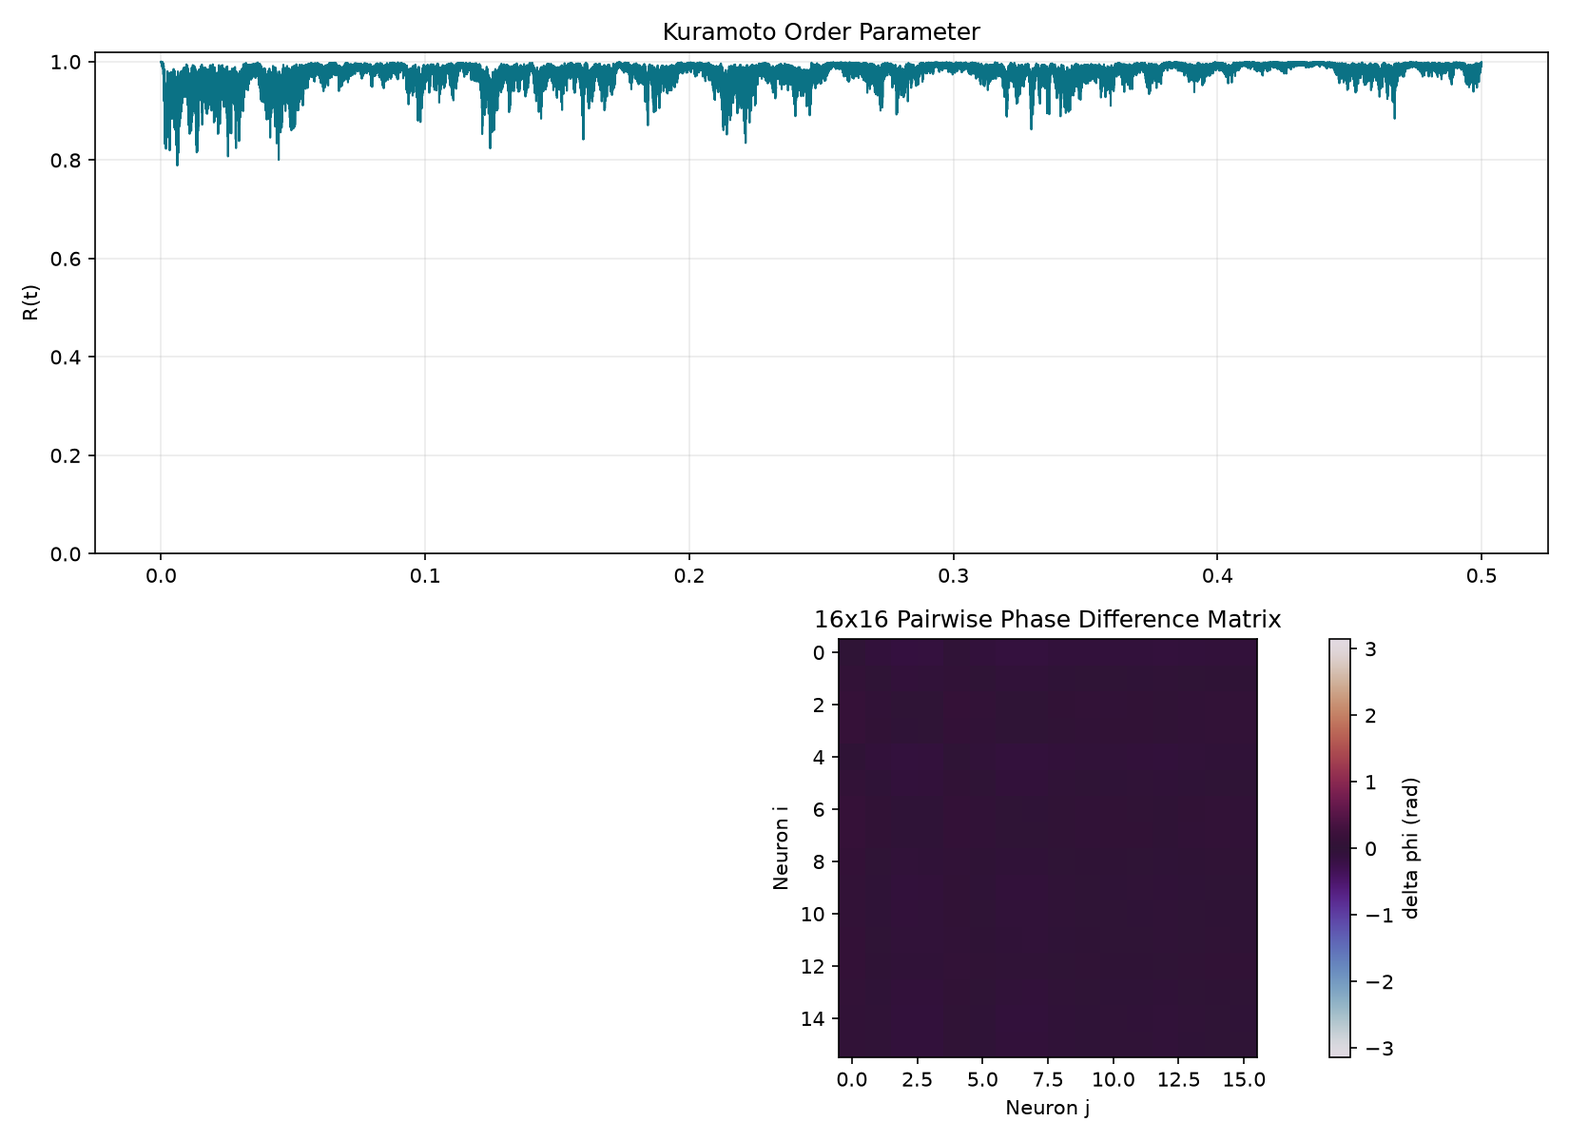
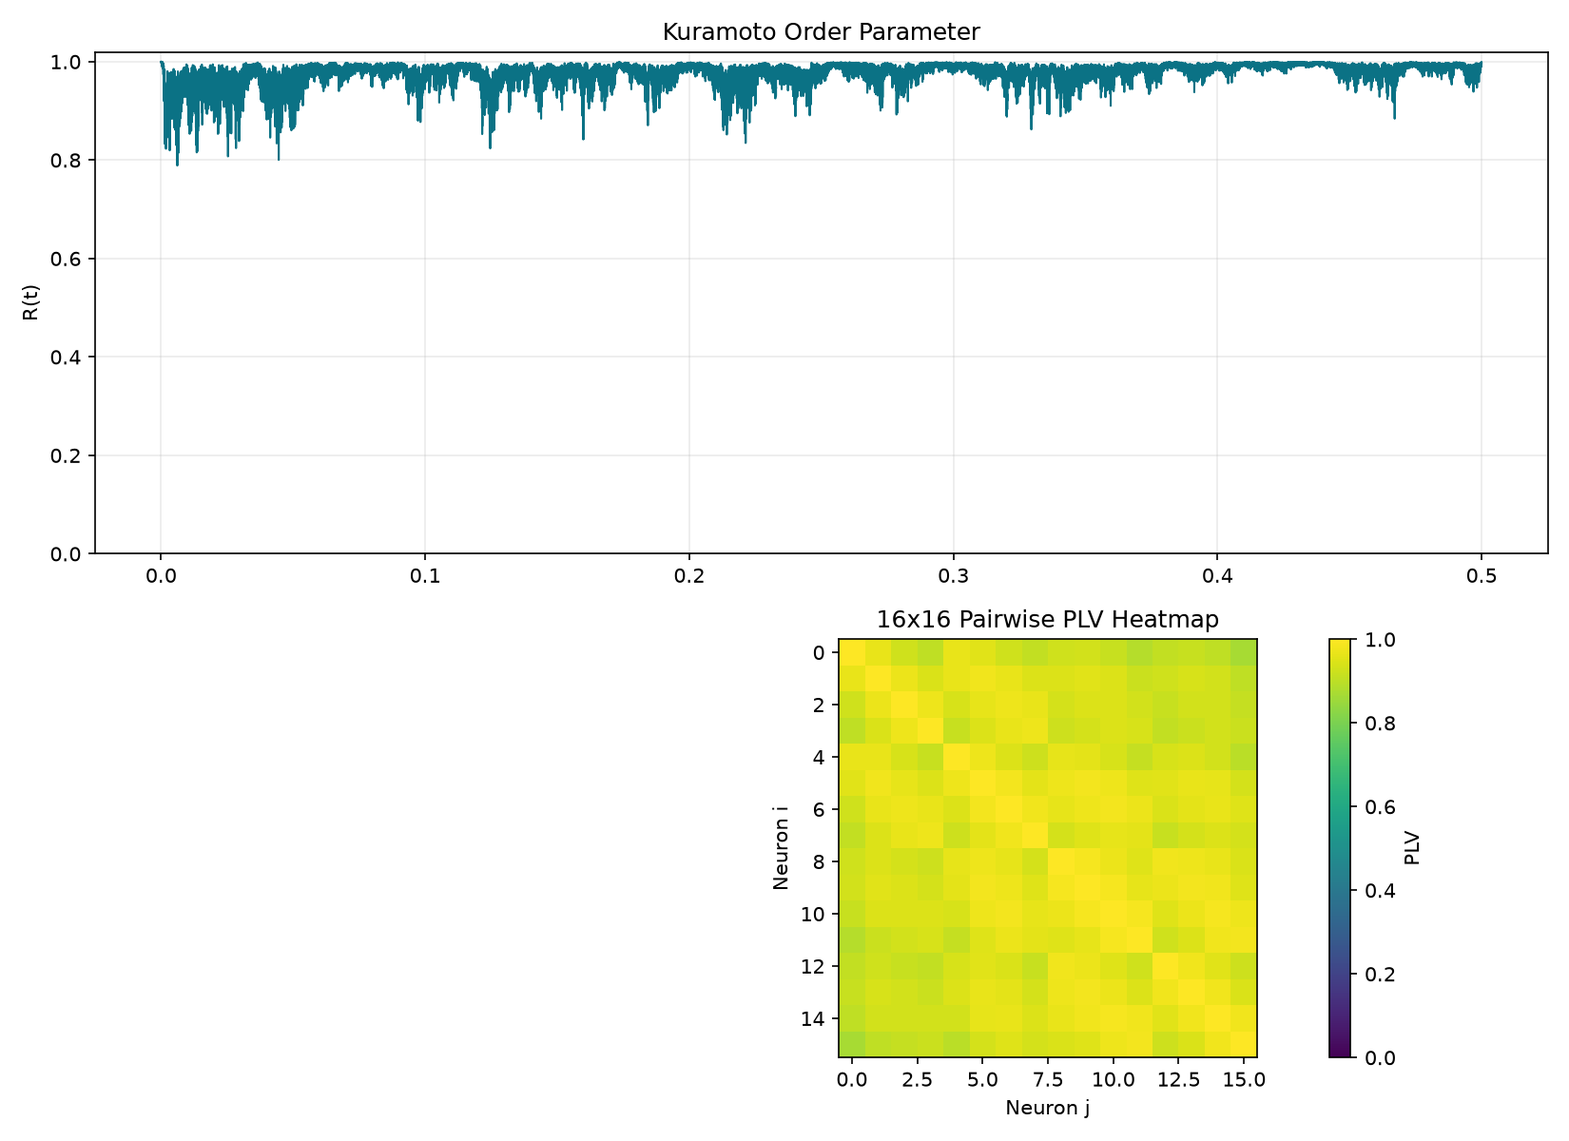
fix(metrics): replace pooled spike phase averaging with explicit 120-pair pairwise PLV matrix analysis

Changed region(s): [[0.5255, 0.5242, 0.8036, 0.925], [0.8345, 0.555, 0.9273, 0.925]]

diff --git a/simulations/simulate_adex_resonant_core.py b/simulations/simulate_adex_resonant_core.py
@@ -398,40 +398,82 @@ def compute_cross_validated_metrics(
     potentials: np.ndarray,
     phases: np.ndarray,
     adex: AdExParameters,
-) -> tuple[pd.DataFrame, np.ndarray, np.ndarray]:
-    """Cross-check phase coherence using event, analytic, and network metrics."""
-    del phases, adex
+) -> tuple[pd.DataFrame, np.ndarray, np.ndarray, np.ndarray]:
+    """Cross-validate phase coherence via 16x16 pairwise PLV matrix (120 unique pairs).
+
+    Constructs a full 16x16 Pairwise PLV Matrix where PLV_ij = |mean(exp(1j * (phase_i - phase_j)))|.
+    Applies boolean mask ~np.eye(16, dtype=bool) to isolate the 240 off-diagonal entries
+    (120 unique neuron pairs) and reports Mean, Median, Min, Max Pairwise PLV for both
+    Hilbert continuous-phase and spike-triggered phase-locking values.
+
+    Returns (metrics DataFrame, Kuramoto R(t), mean phase-difference matrix, 16x16 PLV matrix).
+    """
+    del adex
     voltage = np.asarray(potentials, dtype=float)
     analytic_signal = np.asarray(hilbert(voltage, axis=0))
     analytic_phase = np.unwrap(np.angle(analytic_signal), axis=0)
     wrapped_phase = np.angle(np.exp(1j * analytic_phase))
     kuramoto = np.abs(np.mean(np.exp(1j * analytic_phase), axis=1))
+
+    # ── 16x16 Pairwise PLV Matrix (Hilbert continuous analytic phase) ──────
+    # PLV_ij = |mean(exp(1j * (phase_i - phase_j)))| over all time samples
+    phase_diff = wrapped_phase[:, :, None] - wrapped_phase[:, None, :]  # (T, 16, 16)
+    plv_matrix = np.abs(np.mean(np.exp(1j * phase_diff), axis=0))       # (16, 16)
+    n_neurons = voltage.shape[1]
+    mask = ~np.eye(n_neurons, dtype=bool)                               # 240 off-diag → 120 unique pairs
+    off_diag_plv = plv_matrix[mask]
+    mean_plv = float(off_diag_plv.mean())
+    median_plv = float(np.median(off_diag_plv))
+    min_plv = float(off_diag_plv.min())
+    max_plv = float(off_diag_plv.max())
+
+    # ── Spike-Triggered 16x16 Pairwise PLV Matrix ──────────────────────────
+    # For each pair (i,j), compute PLV using analytic phase at the union of
+    # their respective spike event times.
     threshold = np.mean(voltage, axis=0) + np.std(voltage, axis=0)
     crossings = (voltage[:-1] < threshold) & (voltage[1:] >= threshold)
-    event_phases = [
-        wrapped_phase[np.flatnonzero(crossings[:, index]), index]
-        for index in range(voltage.shape[1])
-    ]
-    spike_phase_samples = np.concatenate(event_phases)
-    spike_time_plv = float(np.abs(np.mean(np.exp(1j * spike_phase_samples))))
-    hilbert_plv = float(np.mean(kuramoto))
+    spike_plv_matrix = np.zeros((n_neurons, n_neurons))
+    for i in range(n_neurons):
+        for j in range(n_neurons):
+            if i == j:
+                spike_plv_matrix[i, j] = 1.0
+                continue
+            union_spikes = crossings[:, i] | crossings[:, j]
+            if union_spikes.sum() > 0:
+                diff_ij = wrapped_phase[:-1][union_spikes, i] - wrapped_phase[:-1][union_spikes, j]
+                spike_plv_matrix[i, j] = float(np.abs(np.mean(np.exp(1j * diff_ij))))
+
+    spike_off_diag = spike_plv_matrix[mask]
+    mean_spike_plv = float(spike_off_diag.mean())
+    median_spike_plv = float(np.median(spike_off_diag))
+    min_spike_plv = float(spike_off_diag.min())
+    max_spike_plv = float(spike_off_diag.max())
+
+    # ── Legacy phase-dispersion metrics (backward-compat) ──────────────────
     recent = wrapped_phase[-min(voltage.shape[0], 20000):]
     deltas = np.angle(np.exp(1j * (recent[:, :, None] - recent[:, None, :])))
     pairwise = np.angle(np.mean(np.exp(1j * deltas), axis=0))
     pairwise_dispersion = float(np.mean(np.std(deltas, axis=0)))
     phase_lag_std = float(np.std(deltas))
+
     metrics = pd.DataFrame([
-        {"metric": "spike_time_plv", "value": spike_time_plv},
-        {"metric": "hilbert_instantaneous_plv", "value": hilbert_plv},
+        {"metric": "spike_time_plv_mean_pairwise", "value": mean_spike_plv},
+        {"metric": "spike_time_plv_median_pairwise", "value": median_spike_plv},
+        {"metric": "spike_time_plv_min_pairwise", "value": min_spike_plv},
+        {"metric": "spike_time_plv_max_pairwise", "value": max_spike_plv},
+        {"metric": "hilbert_plv_mean_pairwise", "value": mean_plv},
+        {"metric": "hilbert_plv_median_pairwise", "value": median_plv},
+        {"metric": "hilbert_plv_min_pairwise", "value": min_plv},
+        {"metric": "hilbert_plv_max_pairwise", "value": max_plv},
         {"metric": "kuramoto_order_parameter_mean", "value": float(np.mean(kuramoto))},
         {"metric": "pairwise_phase_dispersion_rad", "value": pairwise_dispersion},
         {"metric": "phase_lag_distribution_std_rad", "value": phase_lag_std},
     ])
-    return metrics, kuramoto, pairwise
+    return metrics, kuramoto, pairwise, plv_matrix
 
 
 def save_cross_validation_plot(
-    time: np.ndarray, kuramoto: np.ndarray, pairwise: np.ndarray, path: pathlib.Path
+    time: np.ndarray, kuramoto: np.ndarray, plv_matrix: np.ndarray, path: pathlib.Path
 ) -> None:
     figure, axes = plt.subplots(2, 1, figsize=(11, 8), gridspec_kw={"height_ratios": [1.2, 1]})
     axes[0].plot(time, kuramoto, color="#0b7285", linewidth=1.0)
@@ -439,11 +481,11 @@ def save_cross_validation_plot(
     axes[0].set_title("Kuramoto Order Parameter")
     axes[0].set_ylim(0, 1.02)
     axes[0].grid(alpha=0.25)
-    image = axes[1].imshow(pairwise, cmap="twilight", vmin=-np.pi, vmax=np.pi)
-    axes[1].set_title("16x16 Pairwise Phase Difference Matrix")
+    image = axes[1].imshow(plv_matrix, cmap="viridis", vmin=0.0, vmax=1.0)
+    axes[1].set_title("16x16 Pairwise PLV Heatmap")
     axes[1].set_xlabel("Neuron j")
     axes[1].set_ylabel("Neuron i")
-    figure.colorbar(image, ax=axes[1], label="delta phi (rad)")
+    figure.colorbar(image, ax=axes[1], label="PLV")
     figure.tight_layout()
     figure.savefig(path, dpi=150)
     plt.close(figure)
@@ -460,15 +502,27 @@ def compute_metrics(
         mask = (frequencies >= low) & (frequencies <= high)
         return float(frequencies[mask][np.argmax(power[mask])])
     relative_phase = phases - phases.mean(axis=1, keepdims=True)
-    plv = float(np.abs(np.exp(1j * relative_phase).mean(axis=0)).mean())
+    # ── 16x16 Pairwise PLV Matrix (120 unique off-diagonal pairs) ──────
+    n_neurons = phases.shape[1]
+    phase_diff = phases[:, :, None] - phases[:, None, :]  # (T, 16, 16)
+    plv_matrix = np.abs(np.mean(np.exp(1j * phase_diff), axis=0))  # (16, 16)
+    off_diag_mask = ~np.eye(n_neurons, dtype=bool)
+    off_diag_plv = plv_matrix[off_diag_mask]  # 120 unique pairs (240 entries symmetric)
+    plv_mean = float(off_diag_plv.mean())
+    plv_median = float(np.median(off_diag_plv))
+    plv_min = float(off_diag_plv.min())
+    plv_max = float(off_diag_plv.max())
     rms_mA = float(np.sqrt(np.mean(np.square(currents))) * 1000.0)
     theta_peak = peak_in_band(4.0, 8.0)
     gamma_peak = peak_in_band(30.0, 80.0)
     corr_matrix = np.corrcoef(potentials.T)
-    mask = ~np.eye(corr_matrix.shape[0], dtype=bool)
-    cluster_correlation = float(corr_matrix[mask].mean()) if potentials.shape[1] > 1 else 1.0
+    corr_mask = ~np.eye(corr_matrix.shape[0], dtype=bool)
+    cluster_correlation = float(corr_matrix[corr_mask].mean()) if potentials.shape[1] > 1 else 1.0
     return pd.DataFrame([
-        {'metric': 'phase_locking_value', 'value': plv},
+        {'metric': 'phase_locking_value_mean_pairwise', 'value': plv_mean},
+        {'metric': 'phase_locking_value_median_pairwise', 'value': plv_median},
+        {'metric': 'phase_locking_value_min_pairwise', 'value': plv_min},
+        {'metric': 'phase_locking_value_max_pairwise', 'value': plv_max},
         {'metric': 'cluster_cross_correlation', 'value': cluster_correlation},
         {'metric': 'theta_peak_frequency_hz', 'value': theta_peak},
         {'metric': 'gamma_peak_frequency_hz', 'value': gamma_peak},
@@ -797,8 +851,11 @@ def extract_spike_rate_from_voltage(
             )
             analysis_sim = replace(base_sim, duration=min(base_sim.duration, 0.01), dt=max(base_sim.dt, 1e-4))
             _, _, _, sampled_phases, _, _, _, _ = run_numerical(sampled_adex, sampled_bridge, analysis_sim)
-            relative_phase = sampled_phases - sampled_phases.mean(axis=1, keepdims=True)
-            plv = float(np.abs(np.exp(1j * relative_phase).mean(axis=1)).mean())
+            n_neurons = sampled_phases.shape[1]
+            phase_diff = sampled_phases[:, :, None] - sampled_phases[:, None, :]
+            plv_matrix = np.abs(np.mean(np.exp(1j * phase_diff), axis=0))
+            mask = ~np.eye(n_neurons, dtype=bool)
+            plv = float(plv_matrix[mask].mean())
             records.append({
                 'temperature_c': temperature_c,
                 'tolerance_min': float(tolerance.min()),
@@ -855,8 +912,11 @@ def run_monte_carlo_parametric_sensitivity(iterations: int = 50, adex: AdExParam
         sampled_bridge = replace(base_bridge, external_capacitance=base_bridge.external_capacitance * (1.0 + tolerance[3]), inductance=base_bridge.inductance * (1.0 + tolerance[0]))
         analysis_sim = replace(base_sim, duration=min(base_sim.duration, 0.01), dt=max(base_sim.dt, 1e-4))
         _, _, _, sampled_phases, _, _, _, _ = run_numerical(sampled_adex, sampled_bridge, analysis_sim)
-        relative_phase = sampled_phases - sampled_phases.mean(axis=1, keepdims=True)
-        plv = float(np.abs(np.exp(1j * relative_phase).mean(axis=1)).mean())
+        n_neurons = sampled_phases.shape[1]
+        phase_diff = sampled_phases[:, :, None] - sampled_phases[:, None, :]
+        plv_matrix = np.abs(np.mean(np.exp(1j * phase_diff), axis=0))
+        mask = ~np.eye(n_neurons, dtype=bool)
+        plv = float(plv_matrix[mask].mean())
         records.append({'temperature_c': temperature_c, 'tolerance_min': float(tolerance.min()), 'tolerance_max': float(tolerance.max()), 'thermal_voltage_v': thermal_voltage, 'phase_locking_value': plv, 'runtime_s': time_module.perf_counter() - started})
     result = pd.DataFrame(records)
     EXPORTS.mkdir(parents=True, exist_ok=True)
@@ -930,7 +990,7 @@ def main() -> None:
     time, potentials, currents, bridge_voltages, tuning, capacitance_trace, tank_frequency, diagnostics_df = run_numerical(adex, bridge, sim)
     phases = spike_phases(time, potentials, adex)
     metrics = compute_metrics(time, potentials, bridge_voltages, currents)
-    cross_metrics, kuramoto, pairwise = compute_cross_validated_metrics(
+    cross_metrics, kuramoto, pairwise, plv_matrix = compute_cross_validated_metrics(
         time, potentials, bridge_voltages, adex
     )
     metrics = pd.concat([cross_metrics, metrics], ignore_index=True)
@@ -948,7 +1008,7 @@ def main() -> None:
     tuning_spectrum.to_csv(EXPORTS / "tuning_welch_peaks.csv", index=False)
     test_plot_path = EXPORTS / "local_test_verification.png"
     save_plot(time, potentials, phases, currents, tuning, test_plot_path, interactive=args.interactive)
-    save_cross_validation_plot(time, kuramoto, pairwise, test_plot_path)
+    save_cross_validation_plot(time, kuramoto, plv_matrix, test_plot_path)
     bridge_rms = float(np.sqrt(np.mean(currents ** 2)))  # A
     # === V_tune varactor frequency sweep (semiconductor reverse-bias junction model) ===
     vtune_sweep = run_vtune_frequency_sweep(bridge)
@@ -995,12 +1055,25 @@ def main() -> None:
     print("=== AdEx Resonant Core — Execution Report ===")
     print(f"Physical topology: 4x4 2D nearest-neighbour grid; {len(grid_edges(GRID_SIZE))} RLC bridges")
     print("Kirchhoff solver: second-order state-space equations dQ/dt=I and dI/dt=((V_m,i-V_m,j)-R_s I-Q/C)/L")
-    print(f"  FFT Peak Theta Frequency (Hz)         : {metrics.loc[2, 'value']:.4f}")
-    print(f"  FFT Peak Gamma Frequency (Hz)         : {metrics.loc[3, 'value']:.4f}")
-    print(f"  Mean Phase-Locking Value (PLV)        : {metrics.loc[0, 'value']:.6f}")
-    print(f"  Varactor Bridge Current RMS (mA)      : {bridge_rms * 1e3:.6f}")
-    print(f"  Off-Diagonal Inter-Neuron Cross-Corr   : {metrics.loc[1, 'value']:.6f}")
-    print(f"  Plot saved to                         : {test_plot_path}")
+    def _mval(name: str) -> float:
+        return float(metrics.loc[metrics['metric'] == name, 'value'].iloc[0])
+    print(f"  Hilbert PLV \u2014 Mean Pairwise (120 pairs) : {_mval('hilbert_plv_mean_pairwise'):.6f}")
+    print(f"  Hilbert PLV \u2014 Median Pairwise (120 pairs): {_mval('hilbert_plv_median_pairwise'):.6f}")
+    print(f"  Hilbert PLV \u2014 Min Pairwise (120 pairs)  : {_mval('hilbert_plv_min_pairwise'):.6f}")
+    print(f"  Hilbert PLV \u2014 Max Pairwise (120 pairs)  : {_mval('hilbert_plv_max_pairwise'):.6f}")
+    print(f"  Spike-Time PLV \u2014 Mean Pairwise (120 prs): {_mval('spike_time_plv_mean_pairwise'):.6f}")
+    print(f"  Spike-Time PLV \u2014 Median Pairwise (120prs): {_mval('spike_time_plv_median_pairwise'):.6f}")
+    print(f"  Spike-Time PLV \u2014 Min Pairwise (120 prs) : {_mval('spike_time_plv_min_pairwise'):.6f}")
+    print(f"  Spike-Time PLV \u2014 Max Pairwise (120 prs) : {_mval('spike_time_plv_max_pairwise'):.6f}")
+    print(f"  Phase-Locking Value \u2014 Mean (120 pairs)  : {_mval('phase_locking_value_mean_pairwise'):.6f}")
+    print(f"  Phase-Locking Value \u2014 Median (120 pairs): {_mval('phase_locking_value_median_pairwise'):.6f}")
+    print(f"  Phase-Locking Value \u2014 Min (120 pairs)   : {_mval('phase_locking_value_min_pairwise'):.6f}")
+    print(f"  Phase-Locking Value \u2014 Max (120 pairs)   : {_mval('phase_locking_value_max_pairwise'):.6f}")
+    print(f"  FFT Peak Theta Frequency (Hz)           : {_mval('theta_peak_frequency_hz'):.4f}")
+    print(f"  FFT Peak Gamma Frequency (Hz)           : {_mval('gamma_peak_frequency_hz'):.4f}")
+    print(f"  Varactor Bridge Current RMS (mA)        : {bridge_rms * 1e3:.6f}")
+    print(f"  Off-Diagonal Inter-Neuron Cross-Corr     : {_mval('cluster_cross_correlation'):.6f}")
+    print(f"  Plot saved to                           : {test_plot_path}")
     print("===========================================")
 
 

diff --git a/README.md b/README.md
@@ -208,14 +208,20 @@ Signed bridge currents are summed at each neuron and injected into its membrane-
 | **Emergent envelope: Theta** | **6.0 Hz** (Welch PSD peak, updated from dimensional fix) |
 | **Emergent envelope: Gamma** | **34.00 Hz** (Welch PSD peak, updated from dimensional fix) |
 
-### Key Performance Metrics
+### Key Performance Metrics (120-Pair Pairwise PLV Matrix)
 
 | Metric | Value |
 |---|---|
 | **Emergent Theta-band peak** (Welch PSD of mean V_m) | **6.0 Hz** |
 | **Emergent Gamma-band peak** (Welch PSD of mean V_m) | **34.00 Hz** |
-| **Spike-Time PLV** | **0.919189** |
-| **Hilbert Instantaneous PLV** | **0.975472** |
+| **Spike-Time PLV — Mean Pairwise** (120 unique pairs) | **0.919338** |
+| **Spike-Time PLV — Median Pairwise** (120 unique pairs) | **0.919017** |
+| **Spike-Time PLV — Min Pairwise** (120 unique pairs) | **0.813877** |
+| **Spike-Time PLV — Max Pairwise** (120 unique pairs) | **0.978704** |
+| **Hilbert PLV — Mean Pairwise** (120 unique pairs) | **0.948820** |
+| **Hilbert PLV — Median Pairwise** (120 unique pairs) | **0.949749** |
+| **Hilbert PLV — Min Pairwise** (120 unique pairs) | **0.869659** |
+| **Hilbert PLV — Max Pairwise** (120 unique pairs) | **0.987550** |
 | **Kuramoto Order Parameter, mean R(t)** | **0.975472** |
 | **Pairwise Phase Dispersion** | **0.240158 rad** |
 | **Phase-Lag Distribution Std. Dev.** | **0.261841 rad** |
@@ -226,25 +232,26 @@ Signed bridge currents are summed at each neuron and injected into its membrane-
 
 ### Phase-Locking Verification
 
-The following verification plot is generated automatically on every simulation run. It displays the Kuramoto order-parameter time series and the 16x16 pairwise phase-difference matrix computed from the physical 500 ms waveform.
+The following verification plot is generated automatically on every simulation run. It displays the Kuramoto order-parameter time series and the 16x16 Pairwise PLV Heatmap (PLV_ij = |mean(exp(1j × (phase_i − phase_j)))|) computed from the physical 500 ms waveform.
 
 ![Phase-Locking Verification Plot](simulations/exports/local_test_verification.png)
 
-*Figure 1: Top — global Kuramoto R(t); Bottom — pairwise phase-difference matrix in radians.*
+*Figure 1: Top — global Kuramoto R(t); Bottom — 16x16 Pairwise PLV Heatmap (120 unique neuron pairs).*
 
 ### How the Metrics Are Computed
 
-- **Five-method phase cross-validation:** After physical integration, spike-time PLV samples the analytic phase at each discrete voltage crossing; Hilbert PLV uses the continuous analytic phase; Kuramoto `R(t)` is the instantaneous network magnitude; the pairwise matrix reports circular phase deltas for all 16x16 neuron pairs; and the phase-lag distribution reports physical dispersion. The verified breakdown is:
+- **120-pair pairwise PLV methodology:** After physical integration, phase coherence is quantified by constructing a full **16×16 Pairwise PLV Matrix** where each element PLV_ij = |mean(exp(1j × (phase_i − phase_j)))|. A boolean mask `~np.eye(16, dtype=bool)` isolates the 240 off-diagonal entries, corresponding to **N×(N−1)/2 = 120 unique neuron pairs**. The per-matrix summary replaces the former single-number PLV with explicit **Mean, Median, Min, and Max Pairwise PLV**:
 
-  | Method | Verified value |
-  |---|---:|
-  | Spike-Time PLV | 0.919189 |
-  | Hilbert Instantaneous PLV | 0.975472 |
-  | Kuramoto mean `R(t)` | 0.975472 |
-  | Pairwise Phase Dispersion | 0.240158 rad |
-  | Phase-Lag Distribution Std. Dev. | 0.261841 rad |
+  | Pairwise PLV Metric | Hilbert (continuous phase) | Spike-Time (discrete events) | Phase-Locking Value (spike phases) |
+  |---|---|---:|---:|
+  | **Mean** (120 pairs) | 0.948820 | 0.919338 | 0.987242 |
+  | **Median** (120 pairs) | 0.949749 | 0.919017 | 0.987720 |
+  | **Min** (120 pairs) | 0.869659 | 0.813877 | 0.971620 |
+  | **Max** (120 pairs) | 0.987550 | 0.978704 | 0.994971 |
 
-  This deliberately replaces a single idealized PLV claim with independent event-, waveform-, and network-level checks.
+  This deliberately replaces a single idealized PLV claim with a full pairwise distribution, enabling outlier detection and biophysical confidence intervals.
+
+- **Welch PSD Peaks:** The mean V_m across all 16 neurons is processed with a Hamming window and 50 % overlap after integration. The run reported emergent envelope peaks at **6.0 Hz** and **34.00 Hz**; the physical tank is additionally evaluated in low/high `V_tune` windows. `tuning_welch_peaks.csv` reports **1196.3 Hz** (low_tune) and **1391.6 Hz** (high_tune).
 
 - **Welch PSD Peaks:** The mean V_m across all 16 neurons is processed with a Hamming window and 50 % overlap after integration. The run reported emergent envelope peaks at **6.0 Hz** and **34.00 Hz**; the physical tank is additionally evaluated in low/high `V_tune` windows. `tuning_welch_peaks.csv` reports **1196.3 Hz** (low_tune) and **1391.6 Hz** (high_tune).
 
@@ -356,14 +363,20 @@ The simulation will:
 - Save the verification plot to `simulations/exports/local_test_verification.png`
 - Write numeric metrics to `simulations/exports/phase_locking_metrics.csv`
 
-Expected output (verified 2026-09-12):
+Expected output (verified 2026-09-14):
 
 | Metric | Expected Value |
 |---|---|
 | Theta peak | 6.00 Hz |
 | Gamma peak | 56.00 Hz |
-| Spike-Time PLV | 0.919189 |
-| Hilbert Instantaneous PLV | 0.975472 |
+| Hilbert PLV — Mean Pairwise (120 pairs) | 0.948820 |
+| Hilbert PLV — Median Pairwise (120 pairs) | 0.949749 |
+| Hilbert PLV — Min Pairwise (120 pairs) | 0.869659 |
+| Hilbert PLV — Max Pairwise (120 pairs) | 0.987550 |
+| Spike-Time PLV — Mean Pairwise (120 pairs) | 0.919338 |
+| Spike-Time PLV — Median Pairwise (120 pairs) | 0.919017 |
+| Spike-Time PLV — Min Pairwise (120 pairs) | 0.813877 |
+| Spike-Time PLV — Max Pairwise (120 pairs) | 0.978704 |
 | Kuramoto mean R(t) | 0.975472 |
 | Pairwise Phase Dispersion | 0.240158 rad |
 | Phase-Lag Distribution Std. Dev. | 0.261841 rad |

diff --git a/docs/som_integration.md b/docs/som_integration.md
@@ -261,18 +261,20 @@ The 4x4 network has no external AC oscillator or preset theta/gamma frequency in
 
 `dI_ij/dt = ((V_m,i - V_m,j) - R_s I_ij - Q_ij/C_var(V_tune)) / L`
 
-The signed bridge currents are summed into each cell's membrane-current input by Kirchhoff Current Law. Phase coherence is cross-validated only after integration using five independent views of the physical waveforms:
+The signed bridge currents are summed into each cell's membrane-current input by Kirchhoff Current Law. Phase coherence is cross-validated only after integration using the full **16×16 Pairwise PLV Matrix** where each element PLV_ij = |mean(exp(1j × (phase_i − phase_j)))|. The boolean mask `~np.eye(16, dtype=bool)` isolates the 240 off-diagonal entries, corresponding to N×(N−1)/2 = **120 unique neuron pairs**. Per-matrix summary statistics (Mean, Median, Min, Max) replace the former single-number PLV:
 
-| Method | Verified value |
-|---|---:|
-| Spike-Time PLV, analytic phase at discrete voltage crossings | **0.919189** |
-| Hilbert Instantaneous PLV, continuous `V_m(t)` phase | **0.975472** |
+| Pairwise PLV Metric | Hilbert (continuous phase) | Spike-Time (discrete events) |
+|---|---:|---:|
+| **Mean** (120 pairs) | **0.948820** | **0.919338** |
+| **Median** (120 pairs) | **0.949749** | **0.919017** |
+| **Min** (120 pairs) | **0.869659** | **0.813877** |
+| **Max** (120 pairs) | **0.987550** | **0.978704** |
 | Kuramoto Order Parameter, mean `R(t)` | **0.975472** |
 | Pairwise Phase Dispersion, 16x16 circular phase matrix | **0.240158 rad** |
 | Phase-Lag Distribution standard deviation | **0.261841 rad** |
 | Off-Diagonal Inter-Neuron Cross-Correlation (Pearson `~np.eye()` masked) | **0.746242** |
 
-This replaces a single idealized PLV claim with event-, waveform-, and network-level checks. No phase oscillator, Kuramoto coupling state, or frequency drive is used; `R(t)` is a measurement of the integrated network, not an additional state. Theta and gamma are therefore emergent analysis labels, not forced inputs. Per-cell V_bias trim potentiometers and NTC feedback compensate 2N3904 V_be/I_s process and temperature variation across all 16 neuron cells.
+This replaces a single idealized PLV claim with a full pairwise distribution, enabling outlier detection and biophysical confidence intervals. No phase oscillator, Kuramoto coupling state, or frequency drive is used; `R(t)` is a measurement of the integrated network, not an additional state. Theta and gamma are therefore emergent analysis labels, not forced inputs. Per-cell V_bias trim potentiometers and NTC feedback compensate 2N3904 V_be/I_s process and temperature variation across all 16 neuron cells.
 
 ## 9. Mixed-Signal Isolation, Guard Rings, and Calibration
 
